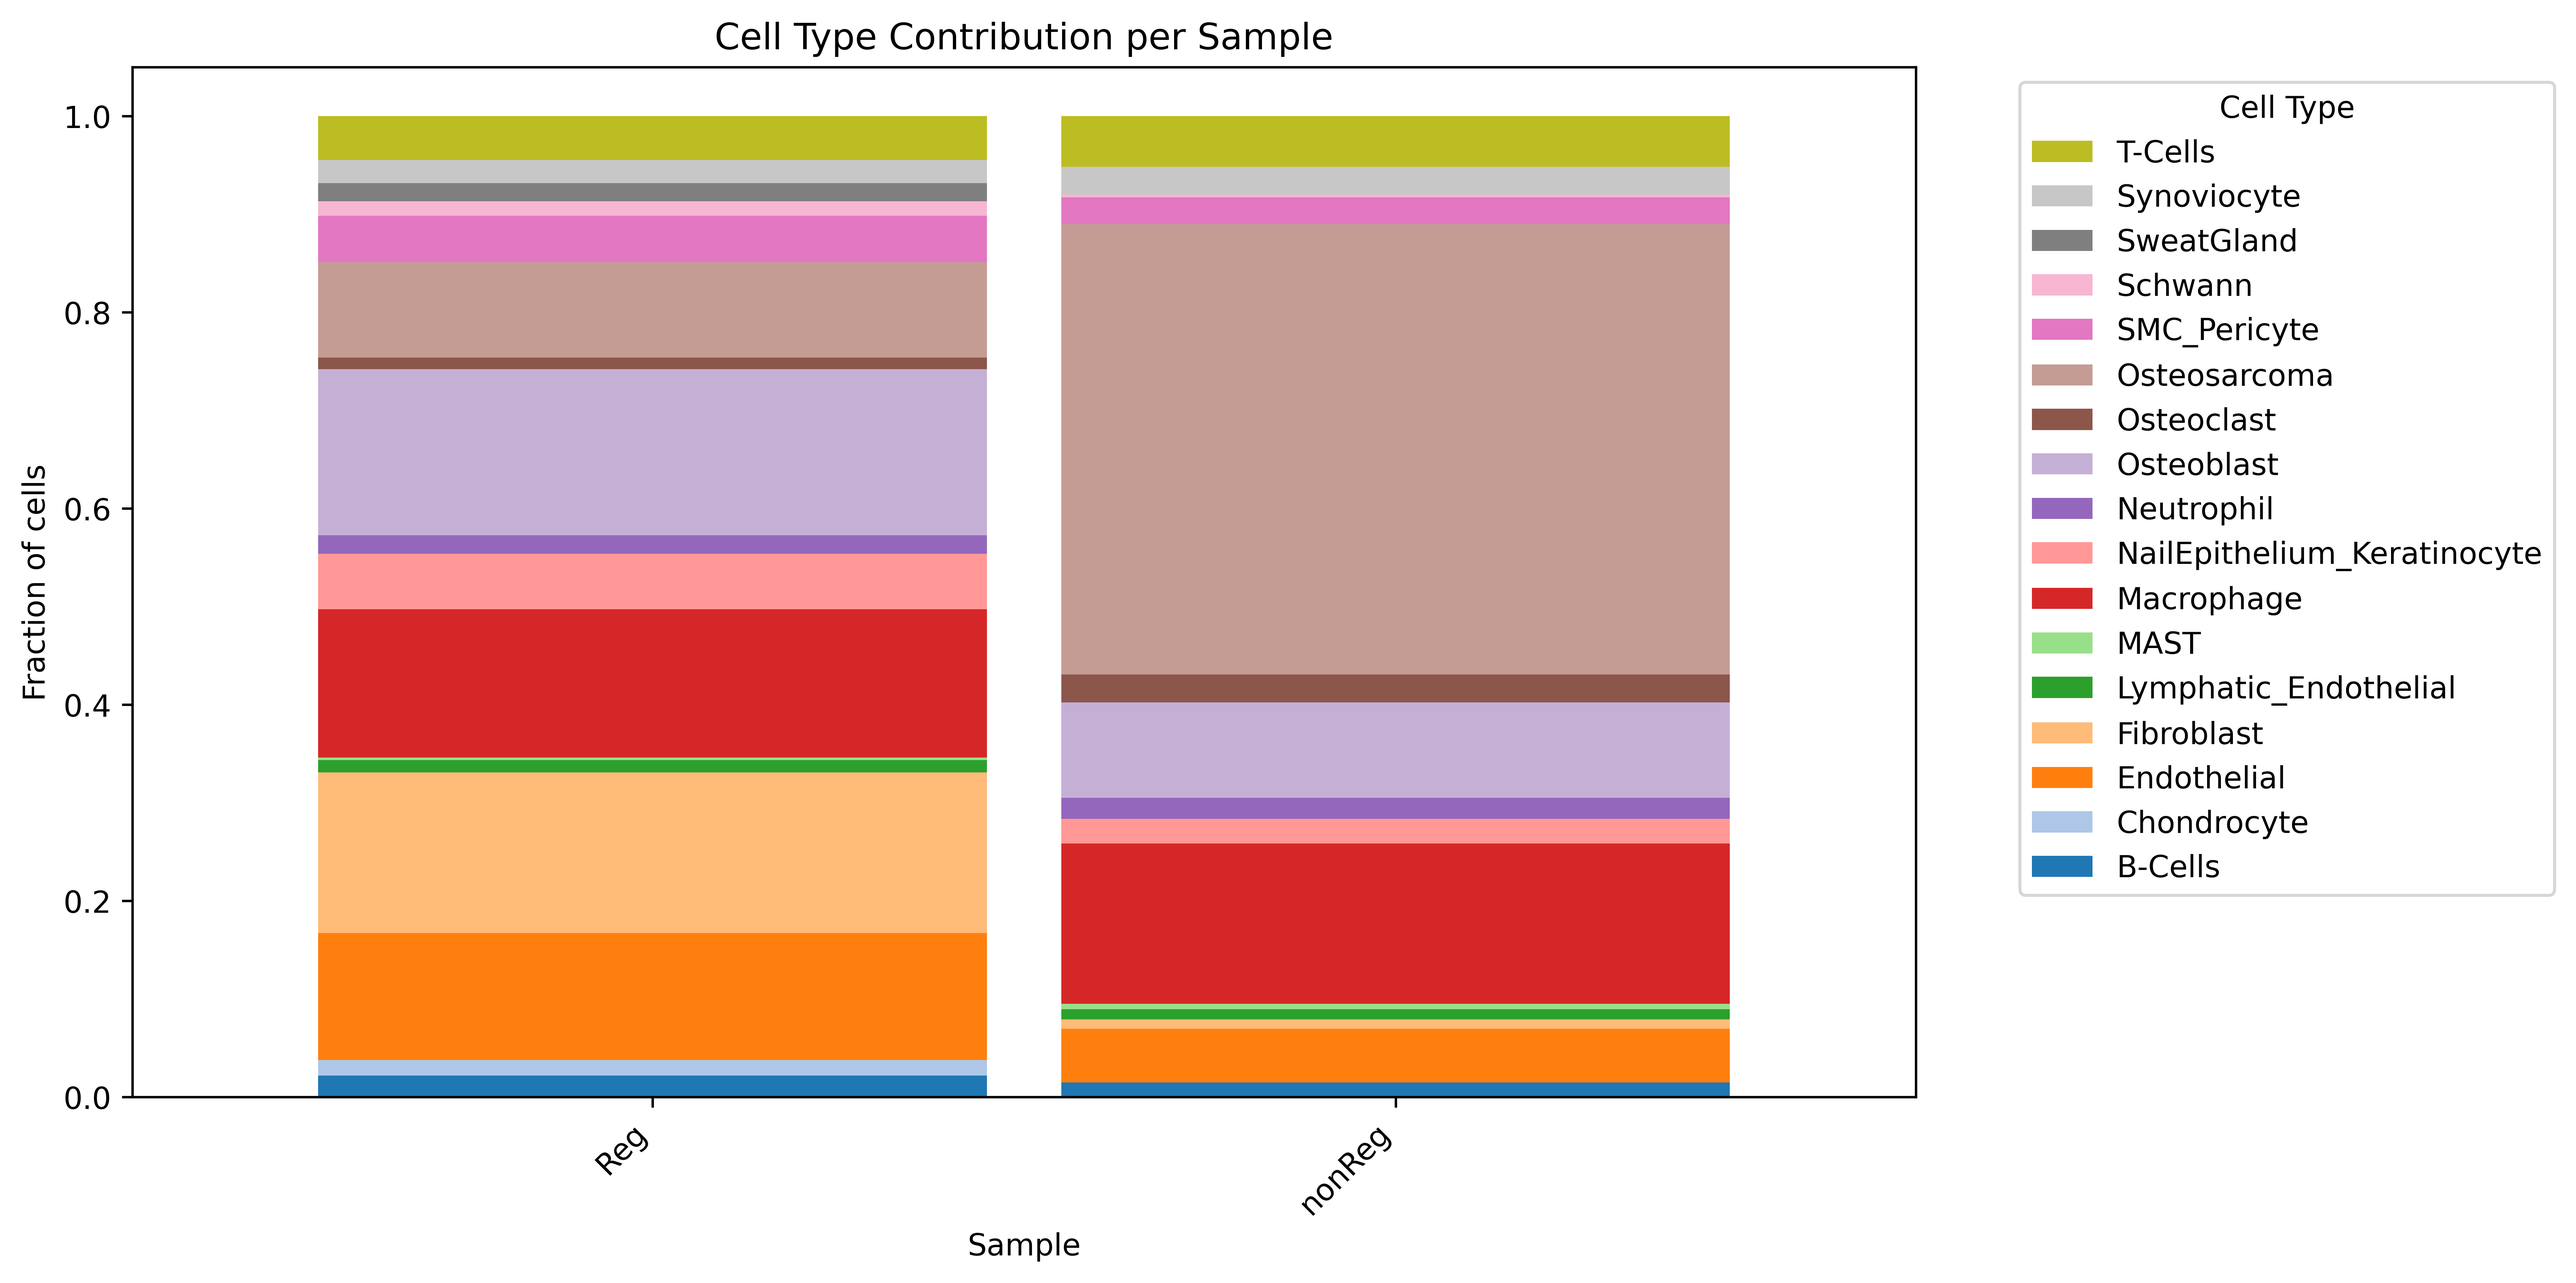
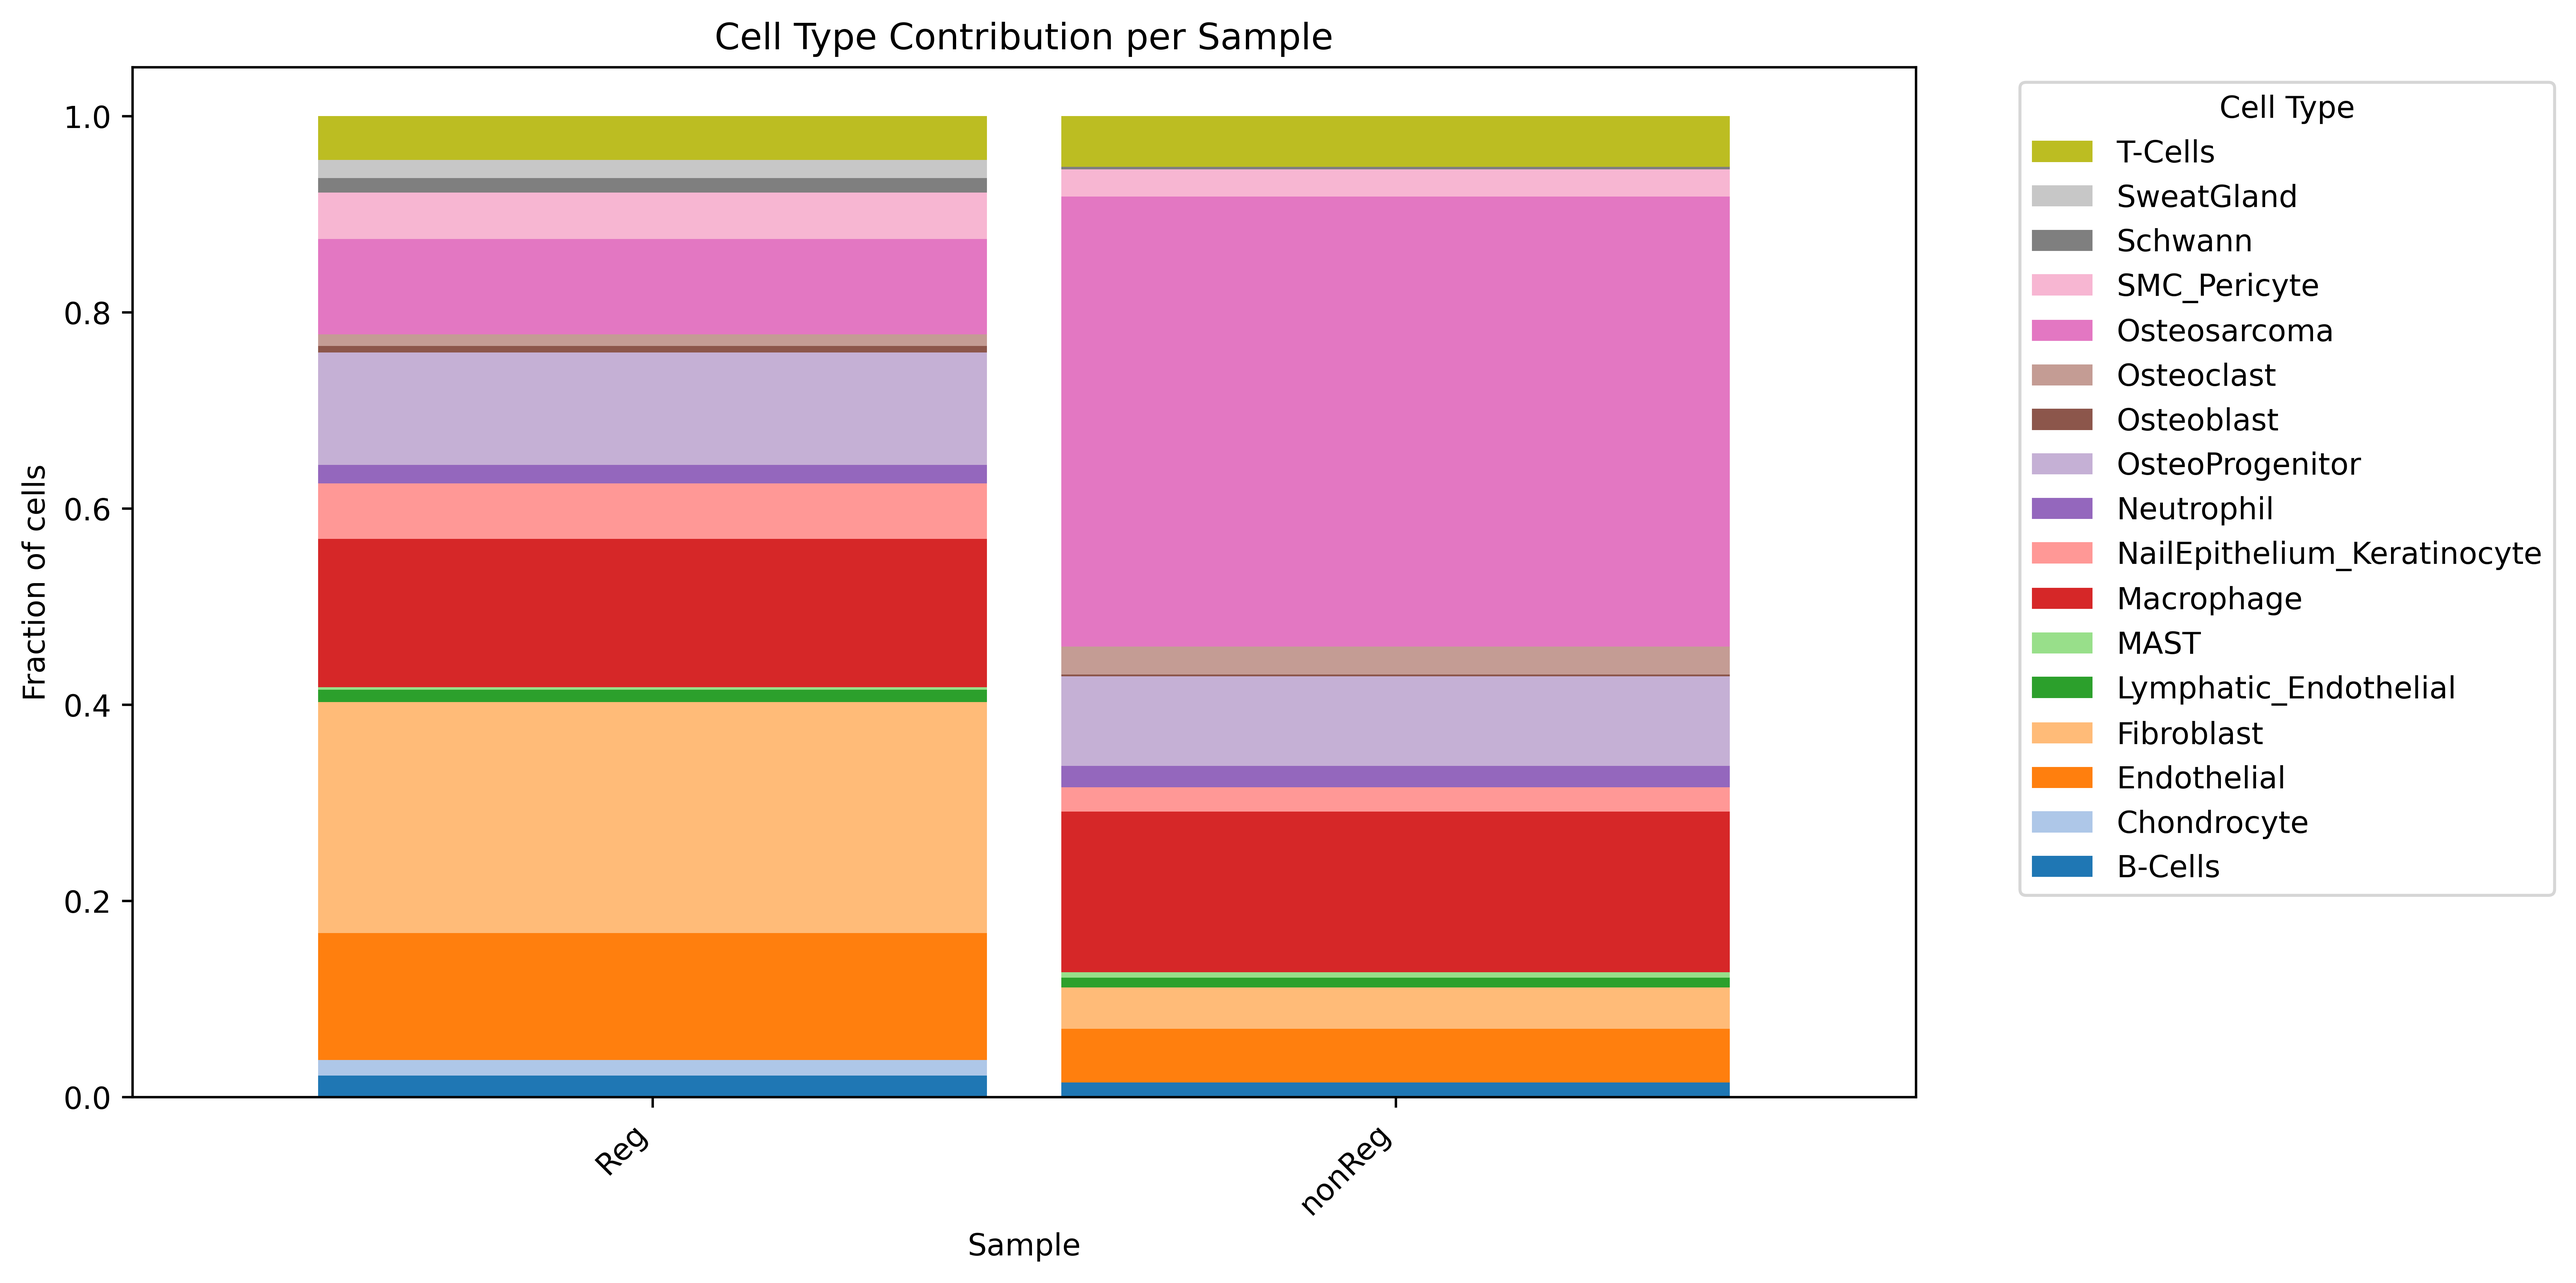
Update cellratios

Changed region(s): [[0.1245, 0.1244, 0.6846, 0.684], [0.4045, 0.7462, 0.6846, 0.8084], [0.8091, 0.1244, 0.9024, 0.3731]]

diff --git a/README.md b/README.md
@@ -239,24 +239,23 @@ We used the above marker genes to annotate our celltypes as follows:
 | B-Cells                      |   259 |    291 |   550 |
 | Chondrocyte                  |   185 |      3 |   188 |
 | Endothelial                  |  1513 |   1076 |  2589 |
-| Fibroblast                   |  1919 |    190 |  2109 |
+| Fibroblast                   |  2759 |    827 |  3586 |
 | Lymphatic_Endothelial        |   147 |    203 |   350 |
 | MAST                         |    30 |    109 |   139 |
 | Macrophage                   |  1774 |   3221 |  4995 |
 | NailEpithelium_Keratinocyte  |   663 |    491 |  1154 |
 | Neutrophil                   |   221 |    424 |   645 |
-| Osteoblast                   |  1984 |   1914 |  3898 |
+| OsteoProgenitor              |  1341 |   1797 |  3138 |
+| Osteoblast                   |    80 |     39 |   119 |
 | Osteoclast                   |   136 |    561 |   697 |
 | Osteosarcoma                 |  1139 |   9034 | 10173 |
 | SMC_Pericyte                 |   553 |    540 |  1093 |
 | Schwann                      |   176 |     54 |   230 |
 | SweatGland                   |   215 |      2 |   217 |
-| Synoviocyte                  |   277 |    559 |   836 |
 | T-Cells                      |   523 |   1014 |  1537 |
 | **Total**                    | 11714 |  19686 | 31400 |
 
-![](figures/axt_cell_ratios.png?v=6)
-
+![](figures/axt_cell_ratios.png?v=8)
 
 ###
 ## Differential gene expression 
